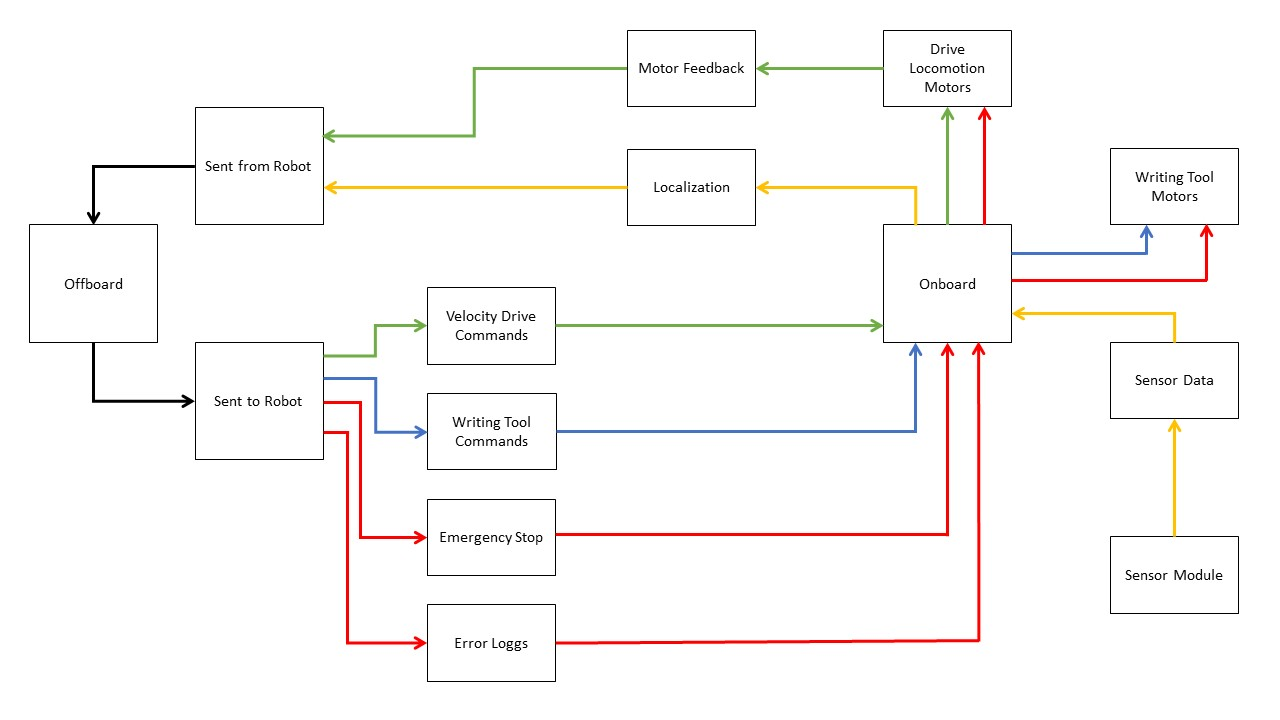
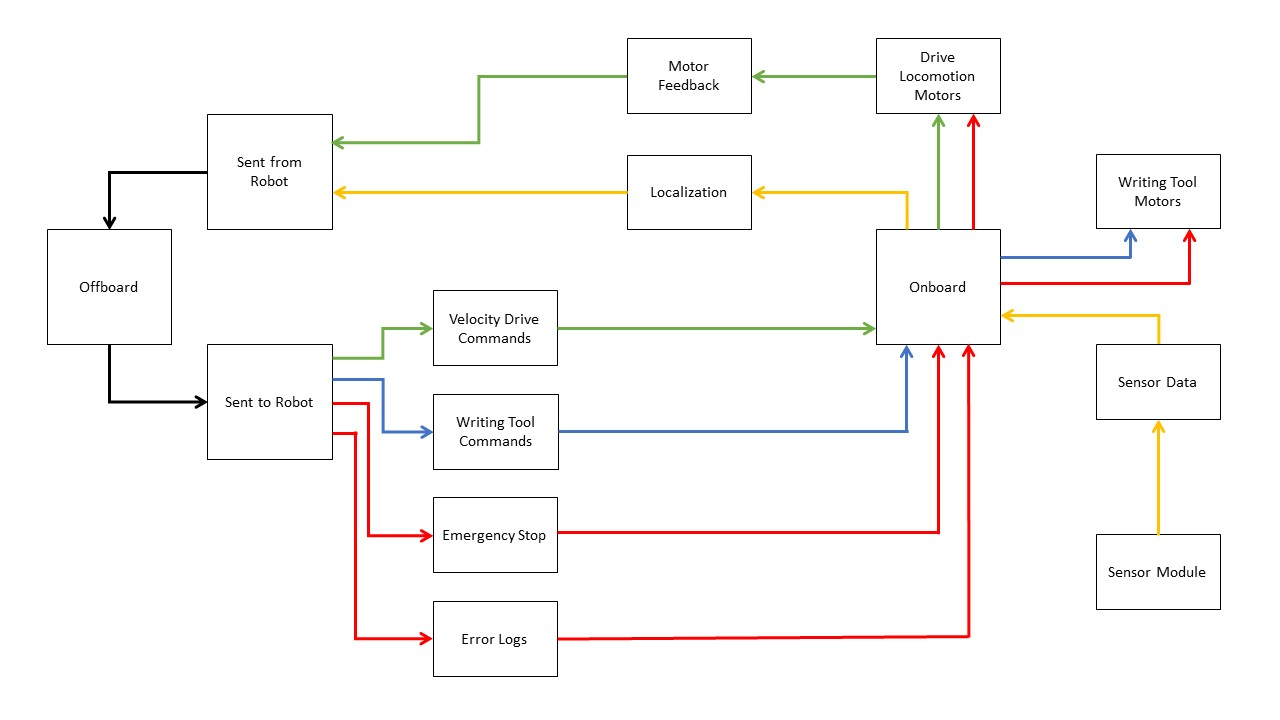
Updated descriptions

diff --git a/concept_eval/software_architecture.tex b/concept_eval/software_architecture.tex
@@ -8,4 +8,24 @@ The software architecture can be separated into three sections: image processing
 \label{sec:sw_arch_image_processing}
 \rhnote{Insert image sw arch image processing.jpg}
 
-The image processing pipeline takes the image scanned by the user, and parses it into a form readable by the work planner.
+The image processing pipeline takes the image scanned by the user, and parses it into a form readable by the work planner. The goal of this software system is to create a series of lines that describes the image. To do this, the system first creates an occupancy grid of the input via voxelization. For a black and white image, the occupancy grid determines black or white. In the case of color, voxels are assigned color based on the image values inside of the voxel.
+
+Once voxelization is complete, lines are formed from the voxels through a nearest-neighbor search. These lines are simply a series of voxel squares that pass through the image. In order to preserve curvature of lines from the input, the grid-delineated lines are reparamterized with splines into paths. These paths are then sent to the work planning module.
+
+\subsection{Communication}
+\label{sec:sw_arch_communication}
+\rhnote{Insert communication image sw arch communication.jpg}
+The communication diagram describes how an individual robot communicates with the offboard path planning system. The system can be described by communciation in four categories: motion commands, writing tool commands, error handling, and localization.
+
+The offboard system will use the planning algorithm to determine motion plans for the robot systems. It determines and then sends velocity commands to the onboard system. The onboard system passes these commands to the drive motors for motion.
+
+To command the writing tool, the offboard system also decides how to move the writing implement based on localization of the robot systems. Similar to velocity commands, the onboard system receives commands for the writing tool, and commands the system accordingly.
+
+Localization receives input from the sensor module, and computes position and orientation. This data is then sent back to the central offboard module to update planning and scheduling.
+
+Error logs are generated by the offboard system based on localization and planning, and sent to each robot's onboard system for appropriate reaction. This includes the emergency stop, which will immediately shut down writing tool and drive motors.
+
+\subsection{Work Scheduling, Distribution and Planning}
+\label{sec:sw_arch_planner}
+\rhnote{Insert planning diagram sw arch planning.jpg}
+\rhnote{Describe planning diagram}
